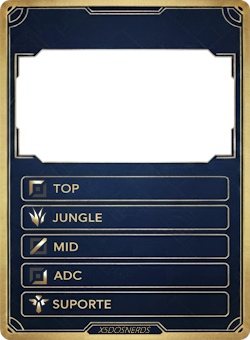
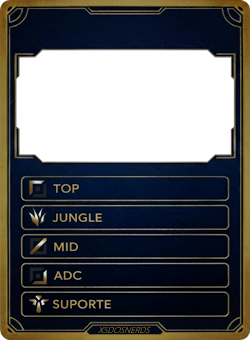
card

diff --git a/components/ui/player-card/player-card.tsx b/components/ui/player-card/player-card.tsx
@@ -54,7 +54,7 @@ function PlayerCardComponent({ player, onClick }: PlayerCardProps) {
 
     // Load both images
     const templateImg = new Image();
-    templateImg.src = "/template_card2.png";
+    templateImg.src = "/template_card.png";
     templateImg.crossOrigin = "anonymous";
 
     const photoImg = new Image();
